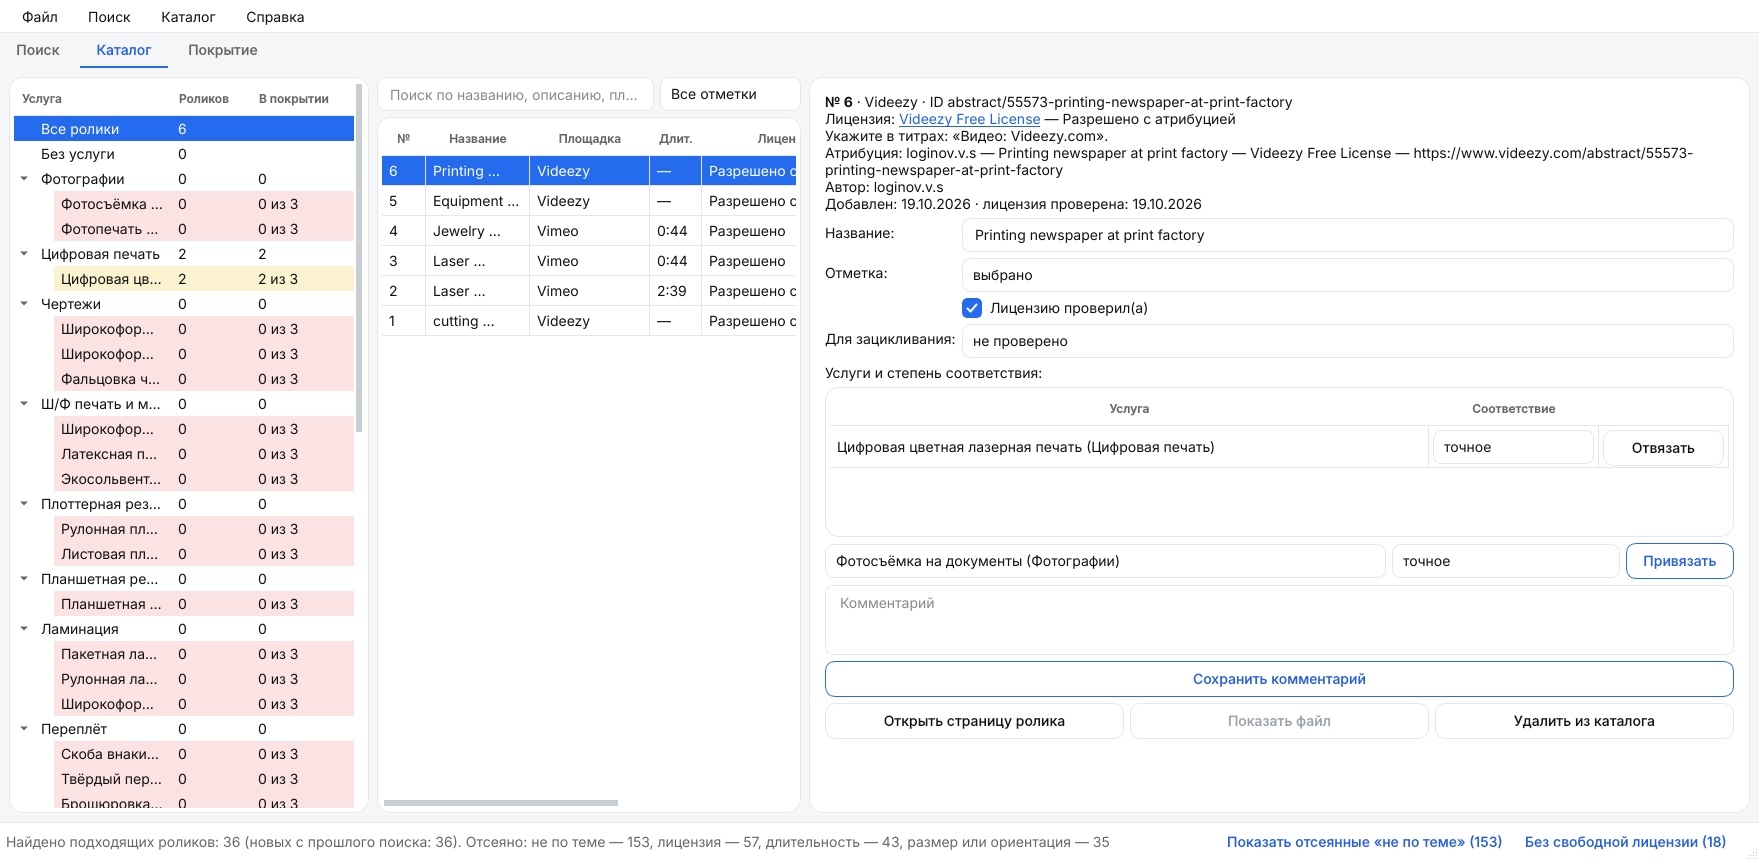
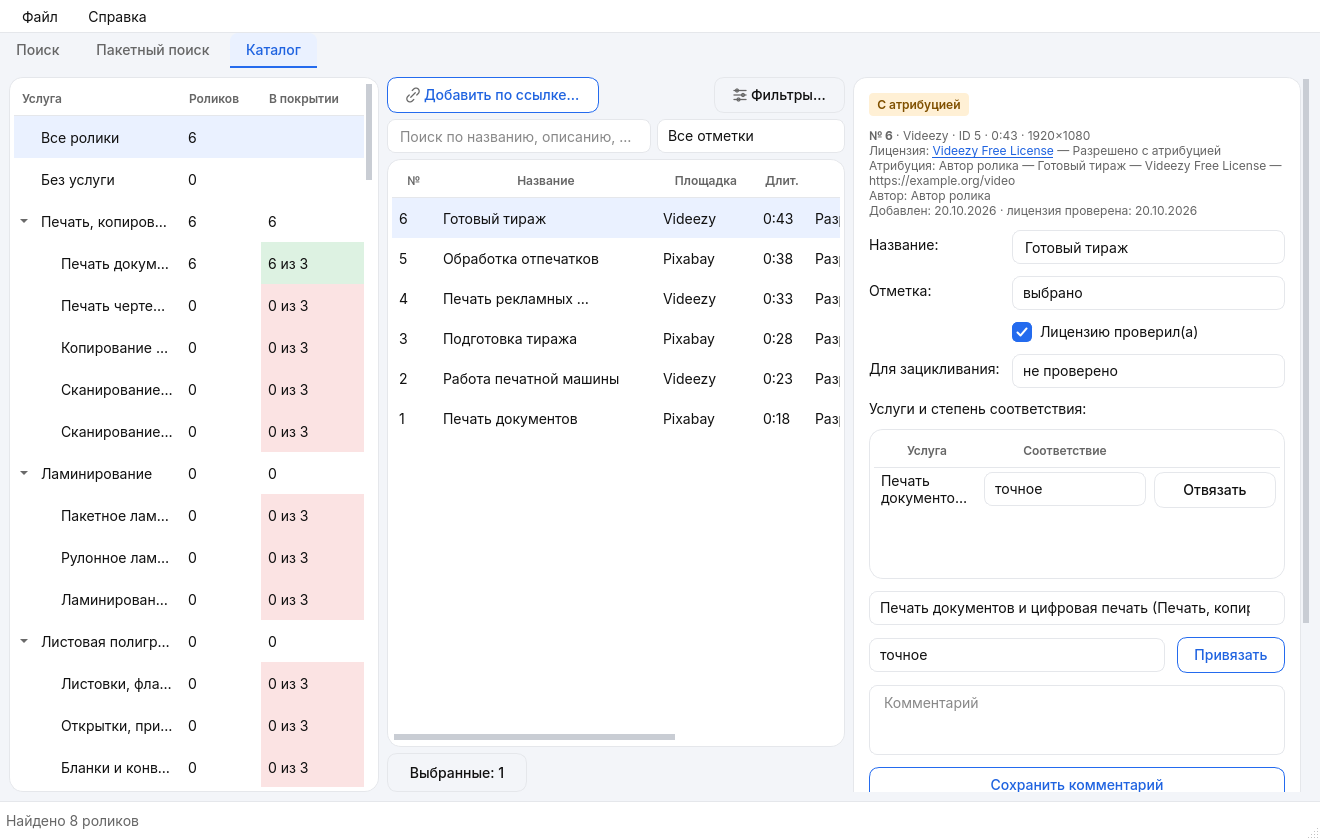
Подготовить выпуск 0.25.0 с новым оформлением и снимками программы

diff --git a/app/ui/catalog_view.py b/app/ui/catalog_view.py
@@ -335,7 +335,7 @@ class CatalogView(QWidget):
         self.search.setPlaceholderText("Поиск по названию, описанию, площадке, комментарию")
         self.search.setClearButtonEnabled(True)
         self.search.textChanged.connect(lambda _t: self.refresh_list())
-        self.status_filter = theme.compact_combo(QComboBox())
+        self.status_filter = theme.compact_combo(QComboBox(), 12)
         for name, value in STATUS_FILTERS:
             self.status_filter.addItem(name, value)
         self.status_filter.activated.connect(lambda _i: self.refresh_list())
@@ -344,17 +344,16 @@ class CatalogView(QWidget):
         theme.set_role(self.add_link, theme.SECONDARY)
         theme.set_icon(self.add_link, "link")
         self.add_link.clicked.connect(self.add_link_requested.emit)
-        filters.addWidget(self.add_link)
         filters.addWidget(self.search, 1)
         filters.addWidget(self.status_filter)
 
         self.table = QTableWidget(0, 7)
         self.table.setHorizontalHeaderLabels(["№", "Название", "Площадка", "Длит.", "Лицензия", "Отметка", "Скачан"])
         columns = self.table.horizontalHeader()
-        for col, width in {0: 44, 2: 120, 3: 52, 4: 170, 5: 80, 6: 60}.items():
+        for col, width in enumerate(design.CATALOG_COLUMN_WIDTHS):
             columns.setSectionResizeMode(col, QHeaderView.ResizeMode.Interactive)
             self.table.setColumnWidth(col, width)
-        columns.setSectionResizeMode(1, QHeaderView.ResizeMode.Stretch)
+        self.table.setHorizontalScrollMode(QAbstractItemView.ScrollMode.ScrollPerPixel)
         self.table.setMinimumWidth(420)
         self.table.verticalHeader().hide()
         self.table.verticalHeader().setDefaultSectionSize(design.TABLE_ROW_HEIGHT)
@@ -387,7 +386,7 @@ class CatalogView(QWidget):
         theme.set_icon(self.filter_button, "filters")
         self.filter_button.setCheckable(True)
         options = QHBoxLayout()
-        options.addWidget(self.bulk)
+        options.addWidget(self.add_link)
         options.addStretch()
         options.addWidget(self.filter_button)
         self.filter_panel = QWidget()
@@ -423,10 +422,11 @@ class CatalogView(QWidget):
         middle = QWidget()
         middle_layout = QVBoxLayout(middle)
         middle_layout.setContentsMargins(0, 0, 0, 0)
-        middle_layout.addLayout(filters)
         middle_layout.addLayout(options)
+        middle_layout.addLayout(filters)
         middle_layout.addWidget(self.filter_panel)
         middle_layout.addWidget(self.table)
+        middle_layout.addWidget(self.bulk)
 
         splitter = QSplitter()
         card_scroll = QScrollArea()

diff --git a/app/ui/main_window.py b/app/ui/main_window.py
@@ -146,7 +146,13 @@ class MainWindow(QMainWindow):
         self.network = QNetworkAccessManager(self)
         self.network.finished.connect(self._on_thumbnail)
         self.setWindowTitle("Поиск видео для копицентров Copy.ru")
-        self.resize(design.WINDOW_WIDTH, design.WINDOW_HEIGHT)
+        screen = self.screen()
+        if screen:
+            available = screen.availableGeometry()
+            self.resize(min(design.WINDOW_WIDTH, available.width() - design.WINDOW_SCREEN_MARGIN),
+                        min(design.WINDOW_HEIGHT, available.height() - design.WINDOW_SCREEN_MARGIN))
+        else:
+            self.resize(design.WINDOW_WIDTH, design.WINDOW_HEIGHT)
 
         self._build_menu()
 

diff --git a/app/__init__.py b/app/__init__.py
@@ -1,1 +1,1 @@
-__version__ = "0.24.1"
+__version__ = "0.25.0"

diff --git a/docs/STATUS.md b/docs/STATUS.md
@@ -1,10 +1,12 @@
-# Состояние проекта по ТЗ — 20.10.2026, версия кода 0.24.1
+# Состояние проекта по ТЗ — 20.10.2026, версия кода 0.25.0
 
 В 0.24.0 выпущены ручное добавление по ссылке, резервная копия «Данных», массовые действия и фильтры каталога, сортировка и фильтры выдачи, показ отклонённых и встроенное руководство. [Windows-выпуск 0.24.0 опубликован](https://github.com/r4v3r-63/copy-video-finder/releases/tag/v0.24.0), тег — коммит `99897ad`. Windows-тесты, сборка и проверка запуска успешны; опубликованный ZIP проверен по SHA-256 и CRC, руководство и FFmpeg входят в поставку.
 
 После выпуска настроена автоматическая публикация следующих версий: повышение `__version__` и пуш в `main` → успешные Ruff и тесты → Windows-сборка того же SHA → выпуск с прежними именами ZIP и SHA-256. Без изменения версии релиз не запускается; опубликованные версии защищены от перезаписи. Ручной запуск остаётся для повторной попытки после сбоя. Выбор версии проверяется 20 тестами на локальной истории git без сети; автовыпуск впервые используется для 0.24.1.
 
 В 0.24.1 по решению пользователя исключён «Перевод документов»: из подсказок, пакетного поиска и каталога услуг, включая старые пользовательские копии справочника. Ролики остаются в каталоге; снимаются только привязки к исключённой услуге. Осталось 375 услуг в 87 группах и 20 разделах.
+
+Для 0.25.0 обновлено оформление по согласованному макету: светлый Fluent и тёмная медиатека, карточки роликов с названием и меткой лицензии, контурные значки, мягкое выделение, обновлённая панель просмотра и таблицы. Смена темы сохраняет выбранный ролик и пользовательские отметки; основные предупреждения о правах видны и при свёрнутых сведениях. Реальные снимки программы в обеих темах — `docs/screenshots/`, примечания выпуска — `docs/RELEASE_NOTES_0.25.0.md`.
 
 Исходное ТЗ: https://claude.ai/code/artifact/01bf5451-bb56-4330-8ba7-38faf84738ca (документ Claude Docs, состояние на 19.10.2026, версия 0.9.0).
 С тех пор пользователь принял ряд решений, которые **меняют ТЗ** — они собраны в разделе «Отступления от ТЗ». Где ТЗ и эти решения расходятся, действуют решения.
@@ -123,7 +125,7 @@
 
 ## Что в работе / ближайшие шаги
 
-Пользователь согласовал макет `docs/mockups/appearance-preview.png`. Реализованы обе темы, карточки с названием, длительностью и лицензией, мягкое выделение, контурные значки, панель просмотра с превью до запуска видео и сворачиваемыми подробностями, спокойное оформление таблиц. Предупреждения о лицензии остаются видны; функции и пользовательские отметки сохраняются. Локально — 487 passed, 1 skipped, Ruff без ошибок. Идёт финальная проверка окон и подготовка выпуска 0.25.0.
+Оформление 0.25.0 реализовано по согласованному макету `docs/mockups/appearance-preview.png`. Реальные окна проверены в обеих темах; карточка каталога прокручивается, длинные названия и блок кадров не раздувают окно. Локально — 487 passed, 1 skipped, Ruff без ошибок. Выпуск 0.25.0 запускается автоматически после успешного CI.
 
 1. **Проверить вход в VK** (пользователь: «Файл → Настройки → VK Видео», ID 54837826 → «Войти в VK» → вставить адрес `blank.html?code=…`). Если VK вернёт ошибку — смотреть `app/sources/vk.py` (`Login`, `exchange`, `refresh`).
 2. **Проверить актуальную версию на пользовательской Windows**: подсказки по услугам сайта, перенос старого каталога, пакетный поиск по 87 группам и новые действия каталога. Автоматическая проверка запуска в Windows CI пройдена.

diff --git a/docs/RELEASE_NOTES_0.25.0.md b/docs/RELEASE_NOTES_0.25.0.md
@@ -1,0 +1,10 @@
+# Версия 0.25.0
+
+- Обновлено оформление: светлая тема в духе Fluent и тёмная медиатека. Выбор — в прежних настройках.
+- В карточках поиска теперь видны название, площадка, лицензия и длительность поверх превью. Выбранный ролик отмечается мягким фоном и синей рамкой.
+- Сортировка вынесена над выдачей, фильтры продолжают работать без новых запросов к площадкам.
+- Обновлена панель просмотра: превью до запуска видео, время воспроизведения, компактные основные действия и сворачиваемые подробности. Предупреждения о правах видны сразу.
+- «В каталог» по-прежнему подтверждает проверку лицензии пользователем; напоминание находится рядом с кнопкой.
+- В каталоге и пакетном поиске — спокойное выделение, читаемые строки и цвет покрытия только рядом с числом. Названия в списке каталога получили больше места, действия и карточка доступны в небольшом окне.
+- Смена темы сохраняет текущий ролик и отметки. Переход к ролику без встроенного просмотра очищает прежнее видео и превью.
+- Обновлены встроенное руководство и снимки экрана. Новых зависимостей нет.

diff --git a/README.md b/README.md
@@ -8,13 +8,13 @@
 и ведёт каталог роликов по услугам сайта Copy.ru.
 
 [![Последняя версия](https://img.shields.io/github/v/release/r4v3r-63/copy-video-finder?label=%D0%B2%D0%B5%D1%80%D1%81%D0%B8%D1%8F&color=632EE6)](https://github.com/r4v3r-63/copy-video-finder/releases/latest)
-[![Сборка](https://img.shields.io/github/actions/workflow/status/r4v3r-63/copy-video-finder/build.yml?label=%D1%81%D0%B1%D0%BE%D1%80%D0%BA%D0%B0)](https://github.com/r4v3r-63/copy-video-finder/actions/workflows/build.yml)
+[![Проверки и сборка](https://img.shields.io/github/actions/workflow/status/r4v3r-63/copy-video-finder/check.yml?label=%D0%BF%D1%80%D0%BE%D0%B2%D0%B5%D1%80%D0%BA%D0%B8)](https://github.com/r4v3r-63/copy-video-finder/actions/workflows/check.yml)
 ![Windows 10 и 11](https://img.shields.io/badge/Windows-10%20%7C%2011-0078D6)
 ![Python 3.12+](https://img.shields.io/badge/Python-3.12%2B-3776AB)
 
 **[Скачать для Windows](https://github.com/r4v3r-63/copy-video-finder/releases/latest)** · без установки, работает с флешки
 
-<img src="docs/screenshots/search.png" alt="Поиск роликов по услуге «Цифровая цветная лазерная печать»" width="100%">
+<img src="docs/screenshots/search.png" alt="Поиск роликов о цифровой печати — светлая тема" width="100%">
 
 </div>
 

diff --git a/AGENTS.md b/AGENTS.md
@@ -10,7 +10,7 @@
 
 ## Коротко о проекте
 
-- Портативная программа для Windows (PyQt6), репозиторий `r4v3r-63/copy-video-finder`, ветка `main`, текущая версия кода — `app/__init__.py` (`__version__`, сейчас 0.24.1; состояние выпуска проверять в GitHub Releases).
+- Портативная программа для Windows (PyQt6), репозиторий `r4v3r-63/copy-video-finder`, ветка `main`, текущая версия кода — `app/__init__.py` (`__version__`, сейчас 0.25.0; состояние выпуска проверять в GitHub Releases).
 - Пользователь один, общается по-русски. Интерфейс, сообщения, комментарии в коде, коммиты — на русском.
 - Пользователю нужны только бесплатные варианты (поисковики, API).
 

diff --git a/docs/screenshots/README.md b/docs/screenshots/README.md
@@ -1,0 +1,11 @@
+# Снимки программы 0.25.0
+
+Реальные окна PyQt6 с демонстрационными записями, без сетевых запросов и пользовательских данных.
+Превью взяты из прежних снимков программы; названия и поля записей демонстрационные.
+
+| Раздел | Светлая тема | Тёмная тема |
+| --- | --- | --- |
+| Поиск | [Открыть](search.png) | [Открыть](search-dark.png) |
+| Каталог | [Открыть](catalog.png) | [Открыть](catalog-dark.png) |
+
+Оконные рамки и заголовок Windows оформляет сама система; здесь снимки содержимого окна из облачной среды.

diff --git a/docs/mockups/README.md b/docs/mockups/README.md
@@ -4,4 +4,5 @@
 
 Предварительная визуальная концепция вкладки «Поиск»: слева — светлый Fluent, справа — тёмная медиатека.
 Изображение сгенерировано для обсуждения оформления; это не снимок работающей программы.
-Оформление ещё не согласовано, код программы по этому макету не менялся.
+Макет согласован пользователем 20.10.2026 и реализован в версии 0.25.0.
+Снимки работающей программы в обеих темах — в [разделе снимков экрана](../screenshots/README.md).
